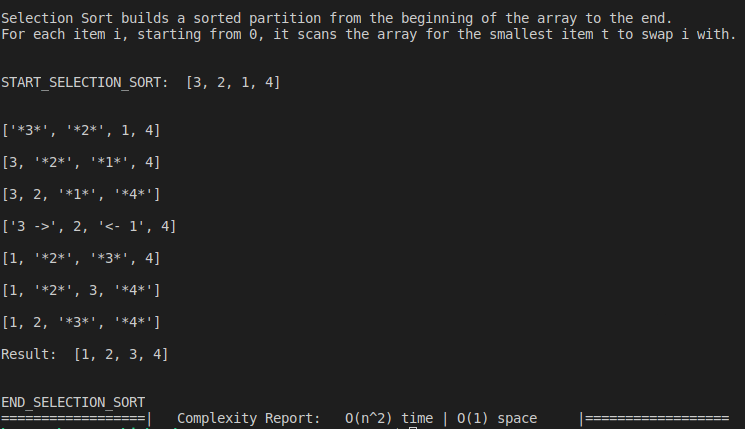
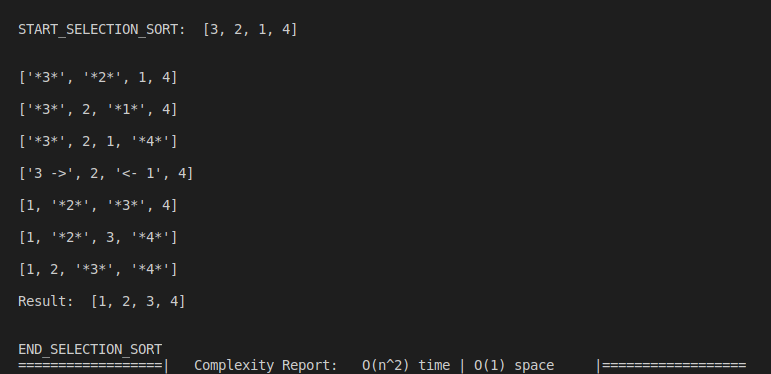
updated sel sort printing

diff --git a/sort_algorithms.py b/sort_algorithms.py
@@ -33,8 +33,8 @@ def selection_sort(vals_to_sort, isVerbose):
     for i in range (0, arr_len-1):
         curr_min = i;
         for j in range(i+1, arr_len):
-            print_util.highlightStep(vals_to_sort, curr_min, j, isVerbose, False);
-            print_util.unHighlightStep(vals_to_sort, curr_min, j, isVerbose, False);
+            print_util.highlightStep(vals_to_sort, i, j, isVerbose, False);
+            print_util.unHighlightStep(vals_to_sort, i, j, isVerbose, False);
             
             if vals_to_sort[j] < vals_to_sort[curr_min]:
                 curr_min = j;
